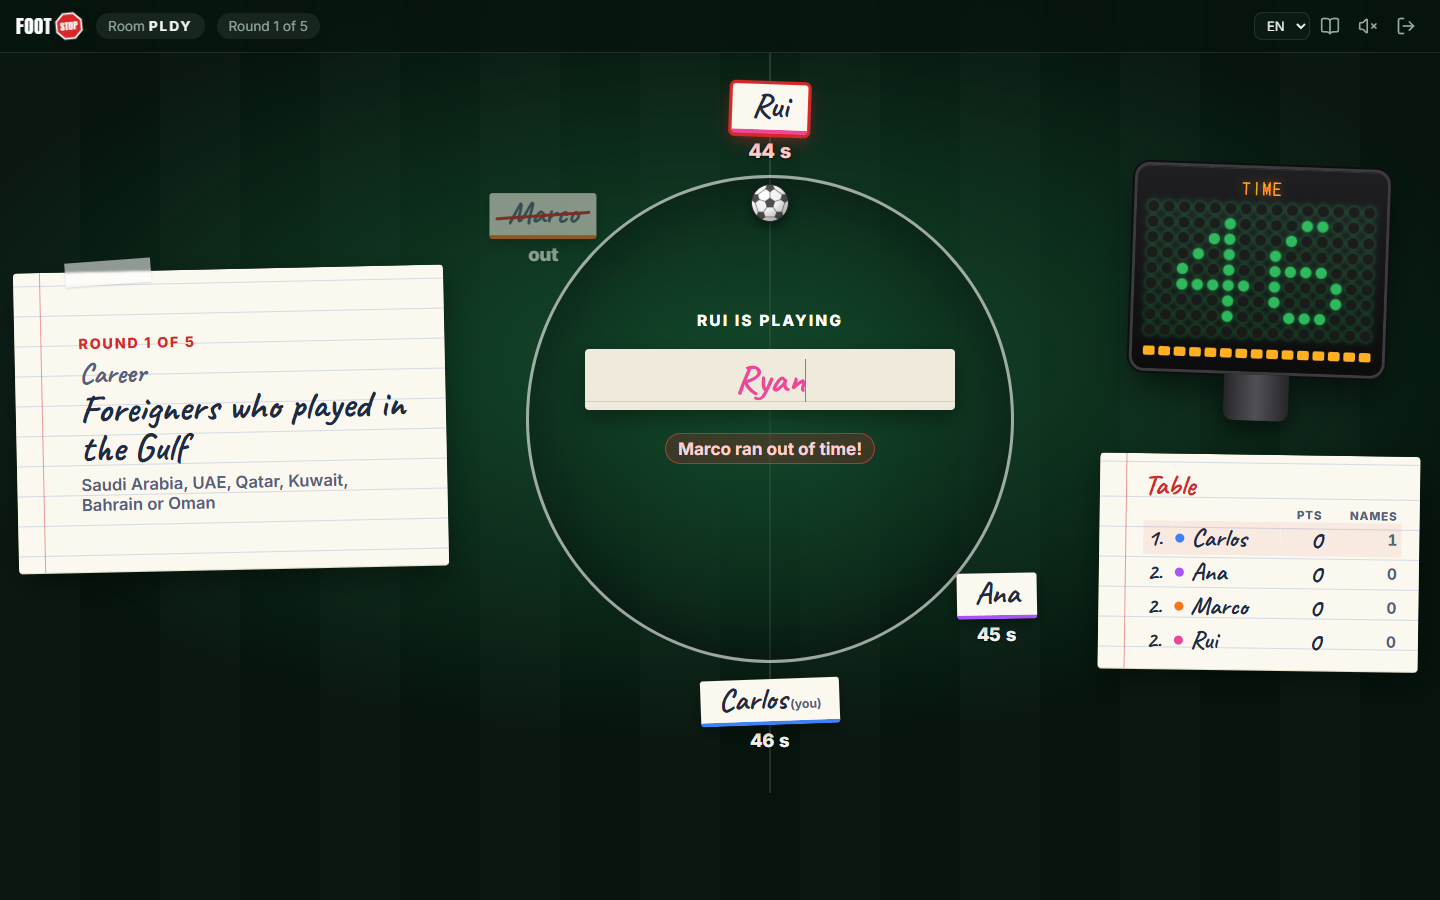
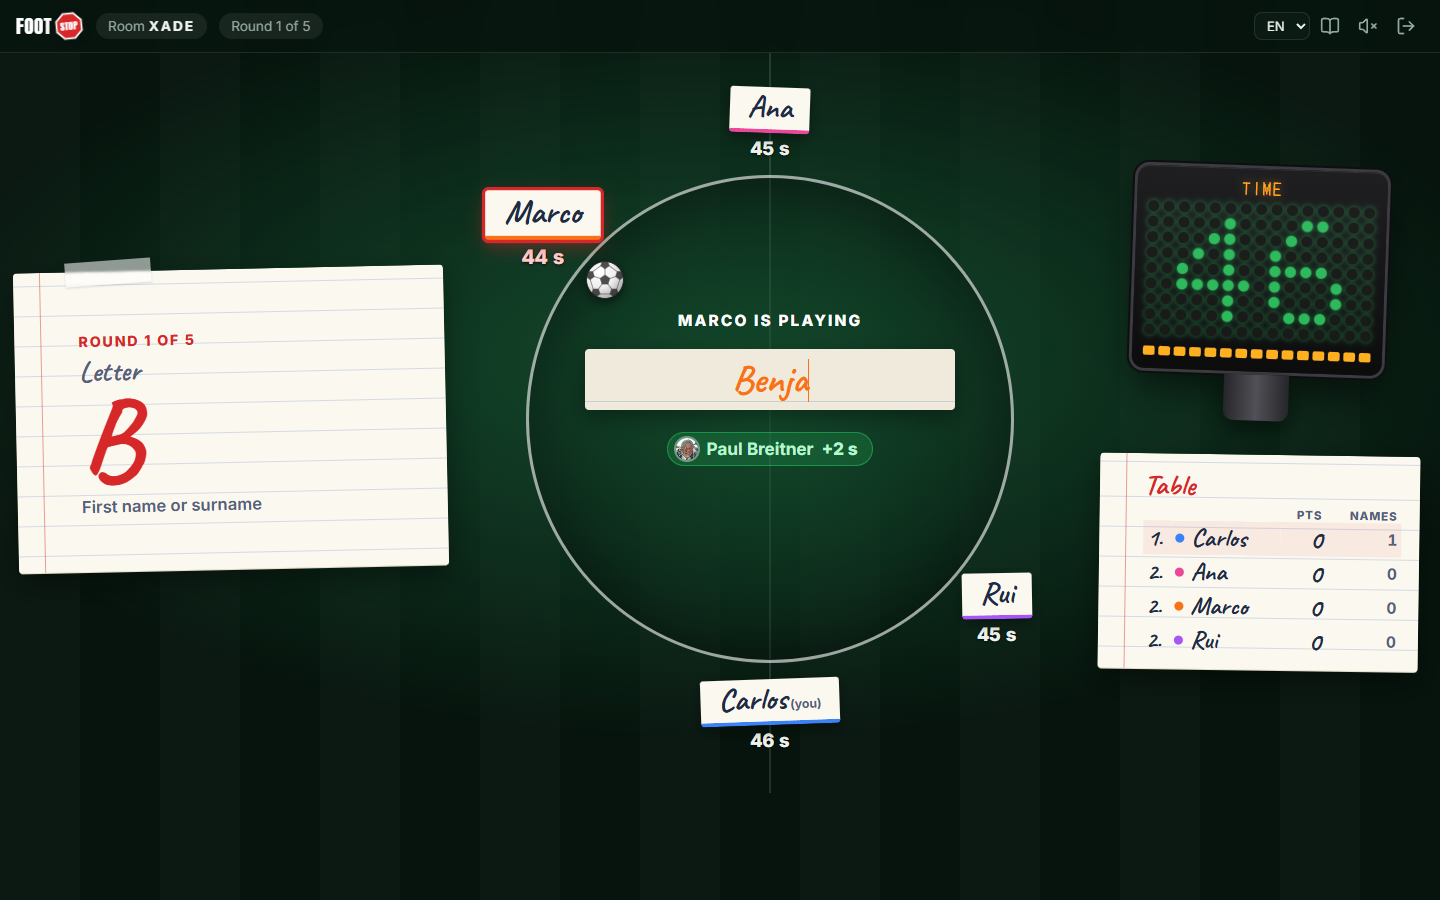
Add a cover image to the README

diff --git a/README.md b/README.md
@@ -1,8 +1,6 @@
 <div align="center">
 
-<img src="public/favicon.svg" alt="Footstop logo" width="96" height="96">
-
-# Footstop
+<img src="docs/screenshots/cover.png" alt="Footstop: name a player, beat the clock" width="100%">
 
 **Stop, the football edition: a letter or a category comes up, and everyone names a footballer before their clock runs out.**<br>
 A fast party game for 2 to 8 friends (or alone), with a chess clock, 92,000 real players and no time to think. Free to host on Cloudflare.
@@ -10,8 +8,6 @@ A fast party game for 2 to 8 friends (or alone), with a chess clock, 92,000 real
 <a href="https://footstop.fc-intel.workers.dev"><img src="https://img.shields.io/badge/play-footstop.fc--intel.workers.dev-d62828?style=flat-square&labelColor=06140d" alt="Play online"></a> <img src="https://img.shields.io/badge/version-1.0-d62828?style=flat-square&labelColor=06140d" alt="Version 1.0"> <a href="LICENSE.md"><img src="https://img.shields.io/badge/license-PolyForm%20Noncommercial-d62828?style=flat-square&labelColor=06140d" alt="License: PolyForm Noncommercial"></a> <img src="https://img.shields.io/badge/cost-0%20%E2%82%AC%2Fmonth-d62828?style=flat-square&labelColor=06140d" alt="Cost: 0 €/month"> <img src="https://img.shields.io/badge/Cloudflare-Workers%20%C2%B7%20Durable%20Objects-d62828?style=flat-square&logo=cloudflare&logoColor=white&labelColor=06140d" alt="Cloudflare Workers and Durable Objects"> <img src="https://img.shields.io/badge/interface-English%20%C2%B7%20Portugu%C3%AAs-d62828?style=flat-square&labelColor=06140d" alt="Interface: English and Portuguese"> <a href="https://ko-fi.com/bacoinz"><img src="https://img.shields.io/badge/Ko--fi-support%20Footstop-d62828?style=flat-square&logo=kofi&logoColor=white&labelColor=06140d" alt="Support Footstop on Ko-fi"></a>
 
 [**▶ Play now**](https://footstop.fc-intel.workers.dev) · [How to play](#how-to-play) · [Run your own](#run-your-own) · [Report a bug](https://github.com/bacoinz/footstop/issues/new/choose) · [🇵🇹 Português](README.pt-PT.md)
-
-<img src="docs/screenshots/round-desktop.png" alt="A round in progress: the letter on the left, the players around the centre circle and the clock on the right" width="100%">
 
 </div>
 
@@ -64,7 +60,7 @@ A letter (**M**) or a category (**Played for Benfica**, **Born in the 80s**, **F
     <td><img src="docs/screenshots/table-desktop.png" alt="The table after a round"></td>
   </tr>
   <tr>
-    <td><img src="docs/screenshots/game-end-desktop.png" alt="The end of the game: podium, final table and stats"></td>
+    <td><img src="docs/screenshots/round-desktop.png" alt="A letter round: live typing in the centre circle and the clock on the fourth official's board"></td>
     <td><img src="docs/screenshots/round-phone.png" alt="A round on a phone" width="49%"> <img src="docs/screenshots/home-phone.png" alt="The start screen on a phone" width="49%"></td>
   </tr>
 </table>

diff --git a/README.pt-PT.md b/README.pt-PT.md
@@ -1,8 +1,6 @@
 <div align="center">
 
-<img src="public/favicon.svg" alt="Logótipo do Footstop" width="96" height="96">
-
-# Footstop
+<img src="docs/screenshots/cover.png" alt="Footstop: diz um jogador antes que o relógio acabe" width="100%">
 
 **O Stop do futebol: sai uma letra ou uma categoria e cada um diz um futebolista antes que o relógio acabe.**<br>
 Um jogo rápido para 2 a 8 amigos (ou a solo), com relógio de xadrez, 92 mil jogadores reais e sem tempo para pensar. Grátis para alojar na Cloudflare.
@@ -10,8 +8,6 @@ Um jogo rápido para 2 a 8 amigos (ou a solo), com relógio de xadrez, 92 mil jo
 <a href="https://footstop.fc-intel.workers.dev"><img src="https://img.shields.io/badge/jogar-footstop.fc--intel.workers.dev-d62828?style=flat-square&labelColor=06140d" alt="Jogar online"></a> <img src="https://img.shields.io/badge/vers%C3%A3o-1.0-d62828?style=flat-square&labelColor=06140d" alt="Versão 1.0"> <a href="LICENSE.md"><img src="https://img.shields.io/badge/licen%C3%A7a-PolyForm%20Noncommercial-d62828?style=flat-square&labelColor=06140d" alt="Licença: PolyForm Noncommercial"></a> <img src="https://img.shields.io/badge/custo-0%20%E2%82%AC%2Fm%C3%AAs-d62828?style=flat-square&labelColor=06140d" alt="Custo: 0 €/mês"> <a href="https://ko-fi.com/bacoinz"><img src="https://img.shields.io/badge/Ko--fi-apoiar%20o%20Footstop-d62828?style=flat-square&logo=kofi&logoColor=white&labelColor=06140d" alt="Apoiar o Footstop no Ko-fi"></a>
 
 [**▶ Jogar agora**](https://footstop.fc-intel.workers.dev) · [Como jogar](#como-jogar) · [Alojar o teu](#alojar-o-teu) · [Reportar um bug](https://github.com/bacoinz/footstop/issues/new/choose) · [🇬🇧 English](README.md)
-
-<img src="docs/screenshots/round-desktop.png" alt="Uma ronda a decorrer: a letra à esquerda, os jogadores à volta do círculo central e o relógio à direita" width="100%">
 
 </div>
 
